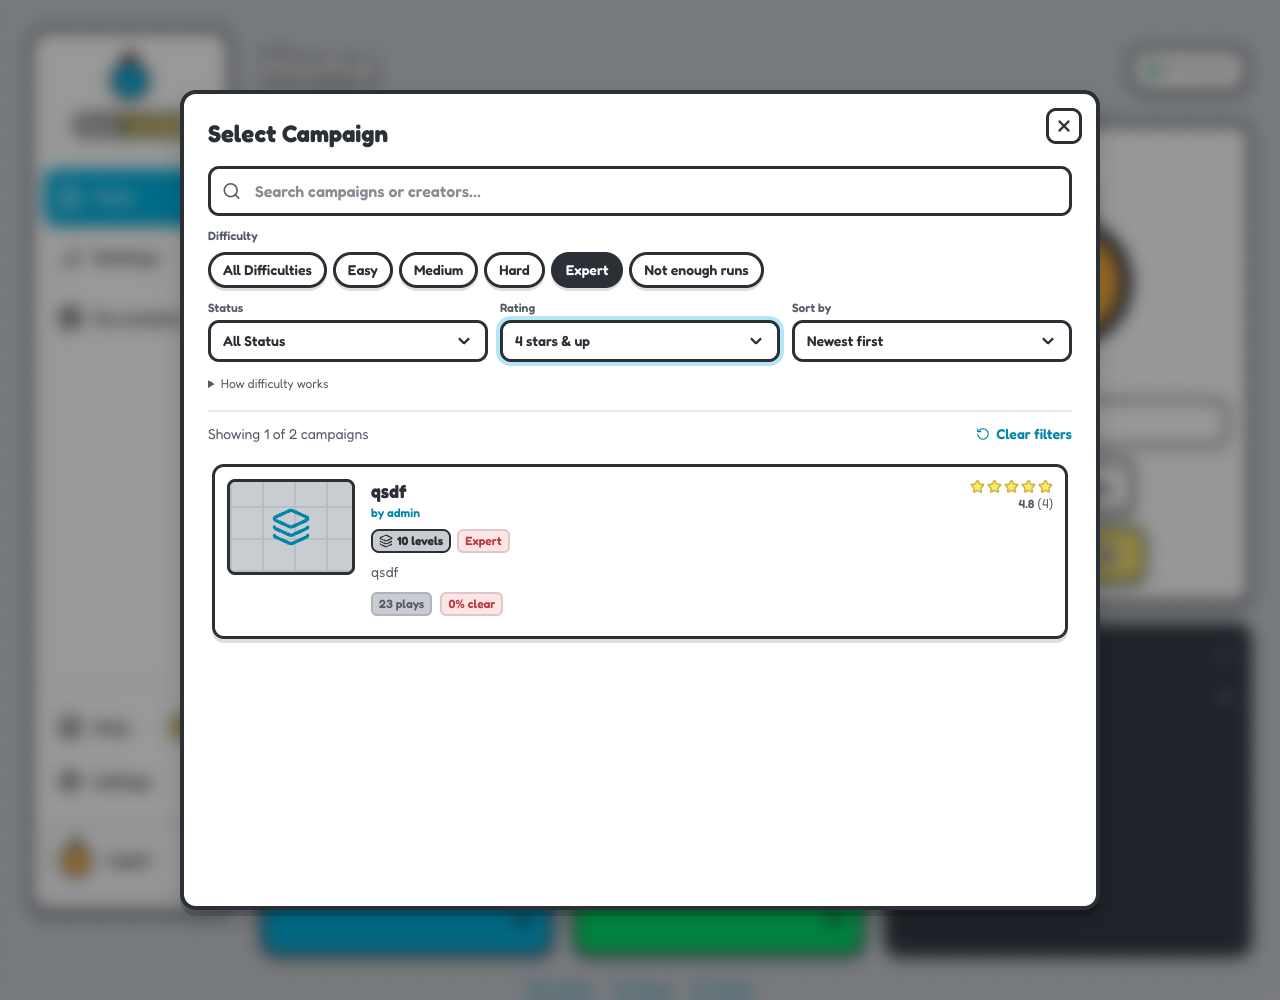
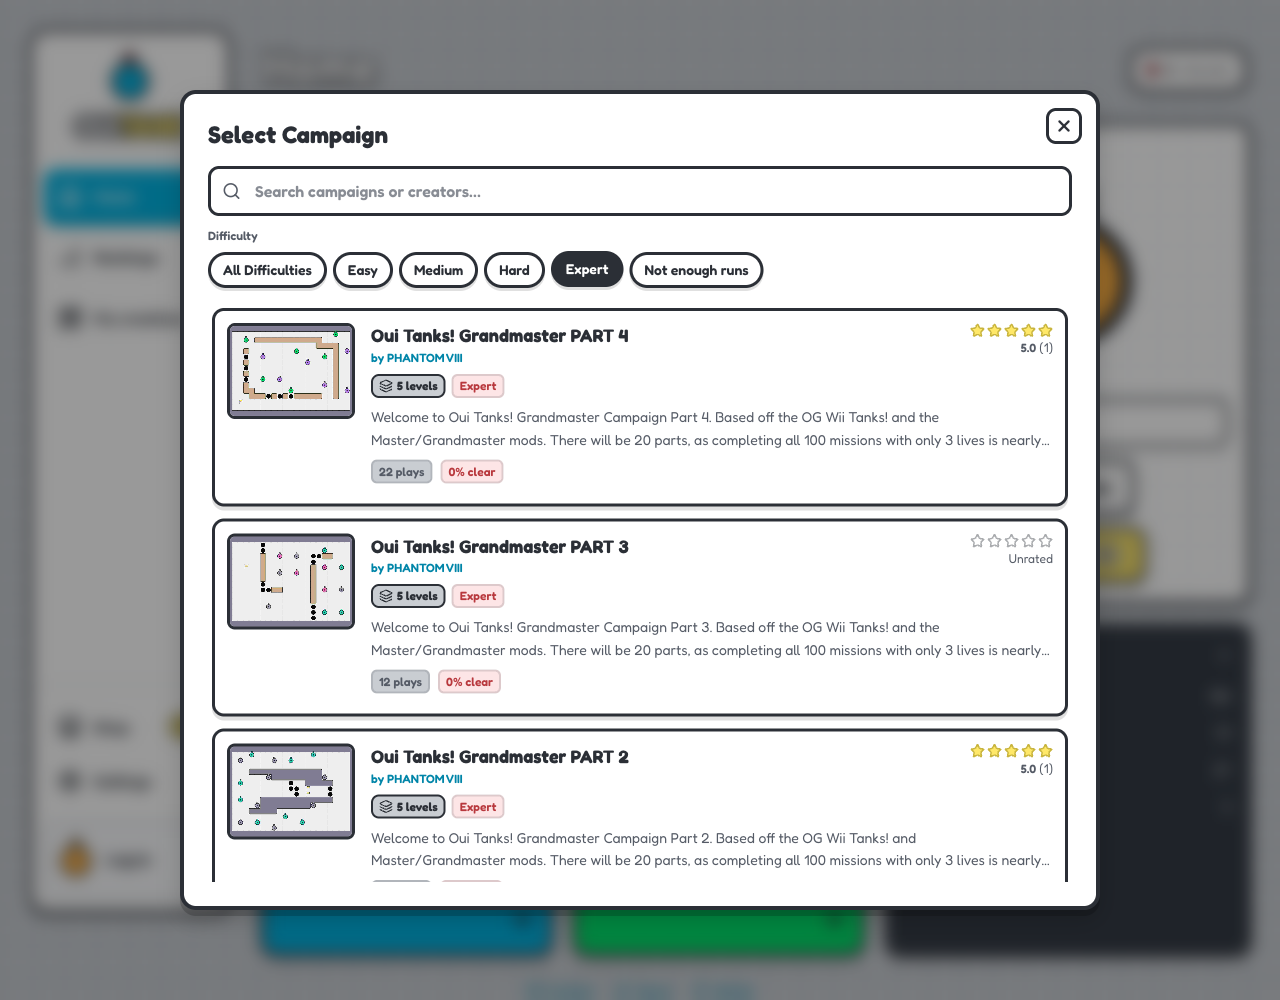
docs(campaigns): refresh selector screenshots after the filter bar removal

Changed region(s): [[0.1562, 0.248, 0.8438, 0.868], [0.1562, 0.124, 0.3125, 0.155]]

diff --git a/docs/campaign-selector/README.md b/docs/campaign-selector/README.md
@@ -18,11 +18,8 @@ Ratings average existing individual ratings across the campaign's currently publ
 
 ## Verification
 
-- 109 unit-test files, 693 tests passed.
-- 34 campaign API integration tests passed against the isolated test database, including sample-size boundaries, all difficulty thresholds, rating aggregation excluding unpublished levels, and ordered campaign previews excluding unpublished levels.
-- Production web build and workspace type checking passed. Web and changed backend/shared files passed lint (existing web warnings remain).
-- Automated Chromium checks against the running app and its real local API: creator search, combined expert and 4+ rating filters, empty state and reset, reopening with fresh filters, no horizontal overflow at 390px, no emoji text, and no page errors.
+- PR CI: unit tests (web + shared), backend tests, typecheck, client build, and lint all passed.
+- Chromium checks against the running web client and the live campaign API: search, the Expert difficulty chip, and the empty state with its reset action. The status/rating/sort controls and the result-count line are gone, and the dialog does not overflow at 390px.
+- The selector unit tests assert that only the search field and difficulty chips remain, that campaigns list newest first, and that search and difficulty still combine and reset.
 
-The PNGs in this directory were captured from that real local app/API session. They are anonymous views of existing local campaigns; no responses were mocked or screenshots fabricated.
-
-The local campaigns in these captures have no stored opening-level thumbnail, so the fallback is visible. Preview selection and missing-image handling are covered by the API integration tests.
+The PNGs in this directory were captured from that session. They are anonymous views of public campaigns; no responses were mocked or screenshots fabricated.
